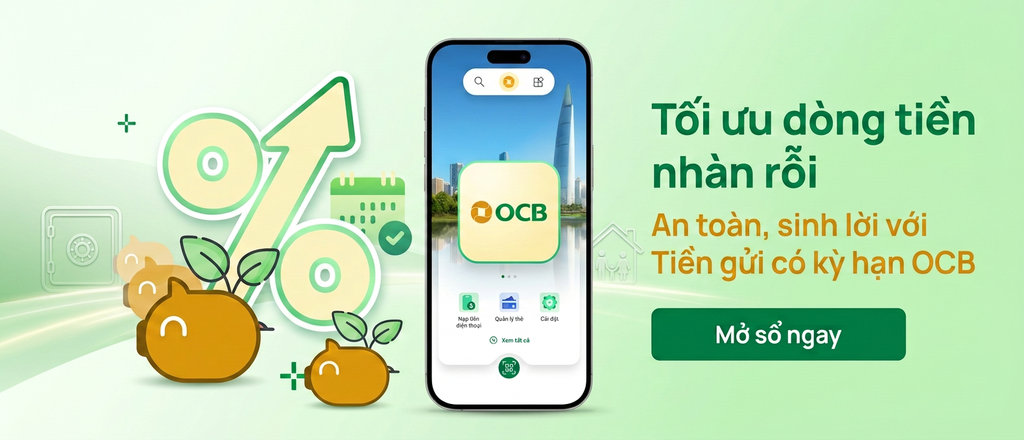
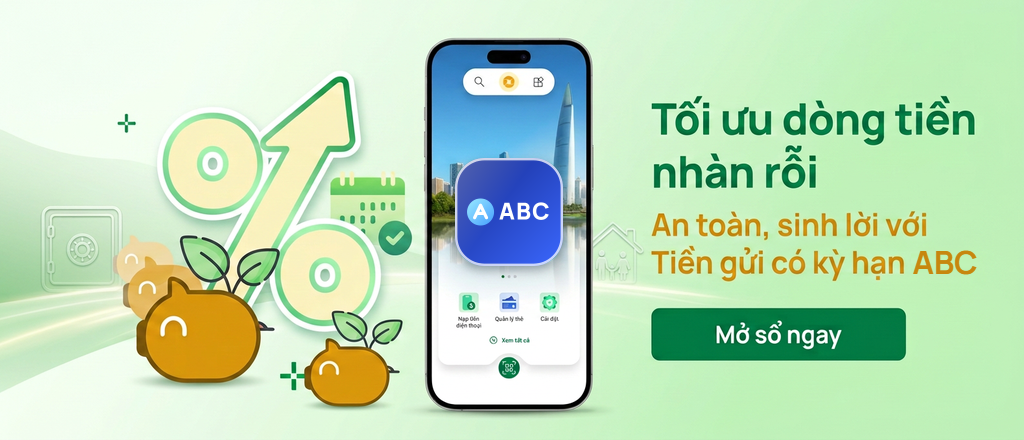
docs: replace OCB branding in 06 README images with placeholder ABC brand
- Retouched the 3 sample banners: OCB logos/names replaced by a fictional "ABC" logo
  (cards, app icon, on-banner copy)
- Redrew both card designs (new colours, names, layout); dropped third-party network marks
- Renamed images to drop real product names; README note explains the placeholder brand

Changed region(s): [[0.4375, 0.3545, 0.5625, 0.6205], [0.875, 0.5614, 0.9688, 0.6205]]

diff --git a/06_banner_generation_Nov2026/README.md b/06_banner_generation_Nov2026/README.md
@@ -114,19 +114,21 @@ At the time of the last change-log entry all modes resolve to `gemini-3.1-flash-
 
 Sample banners generated by the pipeline from `request.json` files (final, cropped output):
 
-| Passport debit card - 1024x440 | Term deposit - 1024x440 |
+| Travel debit card - 1024x440 | Term deposit - 1024x440 |
 |---|---|
-| ![Passport debit card banner](images/result_passport_debit_1024x440.png) | ![Term deposit banner](images/result_term_deposit_1024x440.png) |
+| ![Travel debit card banner](images/result_travel_debit_1024x440.png) | ![Term deposit banner](images/result_term_deposit_1024x440.png) |
 
-![World 2in1 credit card banner](images/result_world_2in1_1024x256.png)
+![Premium 2-in-1 card banner](images/result_premium_card_1024x256.png)
 
 Sample request files are in [`input/`](input/) (4 of the original request set).
 
 **Note:**
 
-The images above are a small selection of outputs from development runs. Brand guideline documents, logos, reference
-imagery and the full set of request files used during development are intentionally **not** included in this public
-repository (see "Assets not included" below).
+The images above are a small selection of outputs from development runs. For this public repository the client brand
+was replaced with a fictional placeholder brand, **ABC**: logos, card designs, card names and the brand name in the
+on-banner copy were retouched, while the layout, backgrounds and the rest of the generated copy are unchanged. Brand
+guideline documents, logos, reference imagery and the full set of request files used during development are
+intentionally **not** included either (see "Assets not included" below).
 
 ---
 
